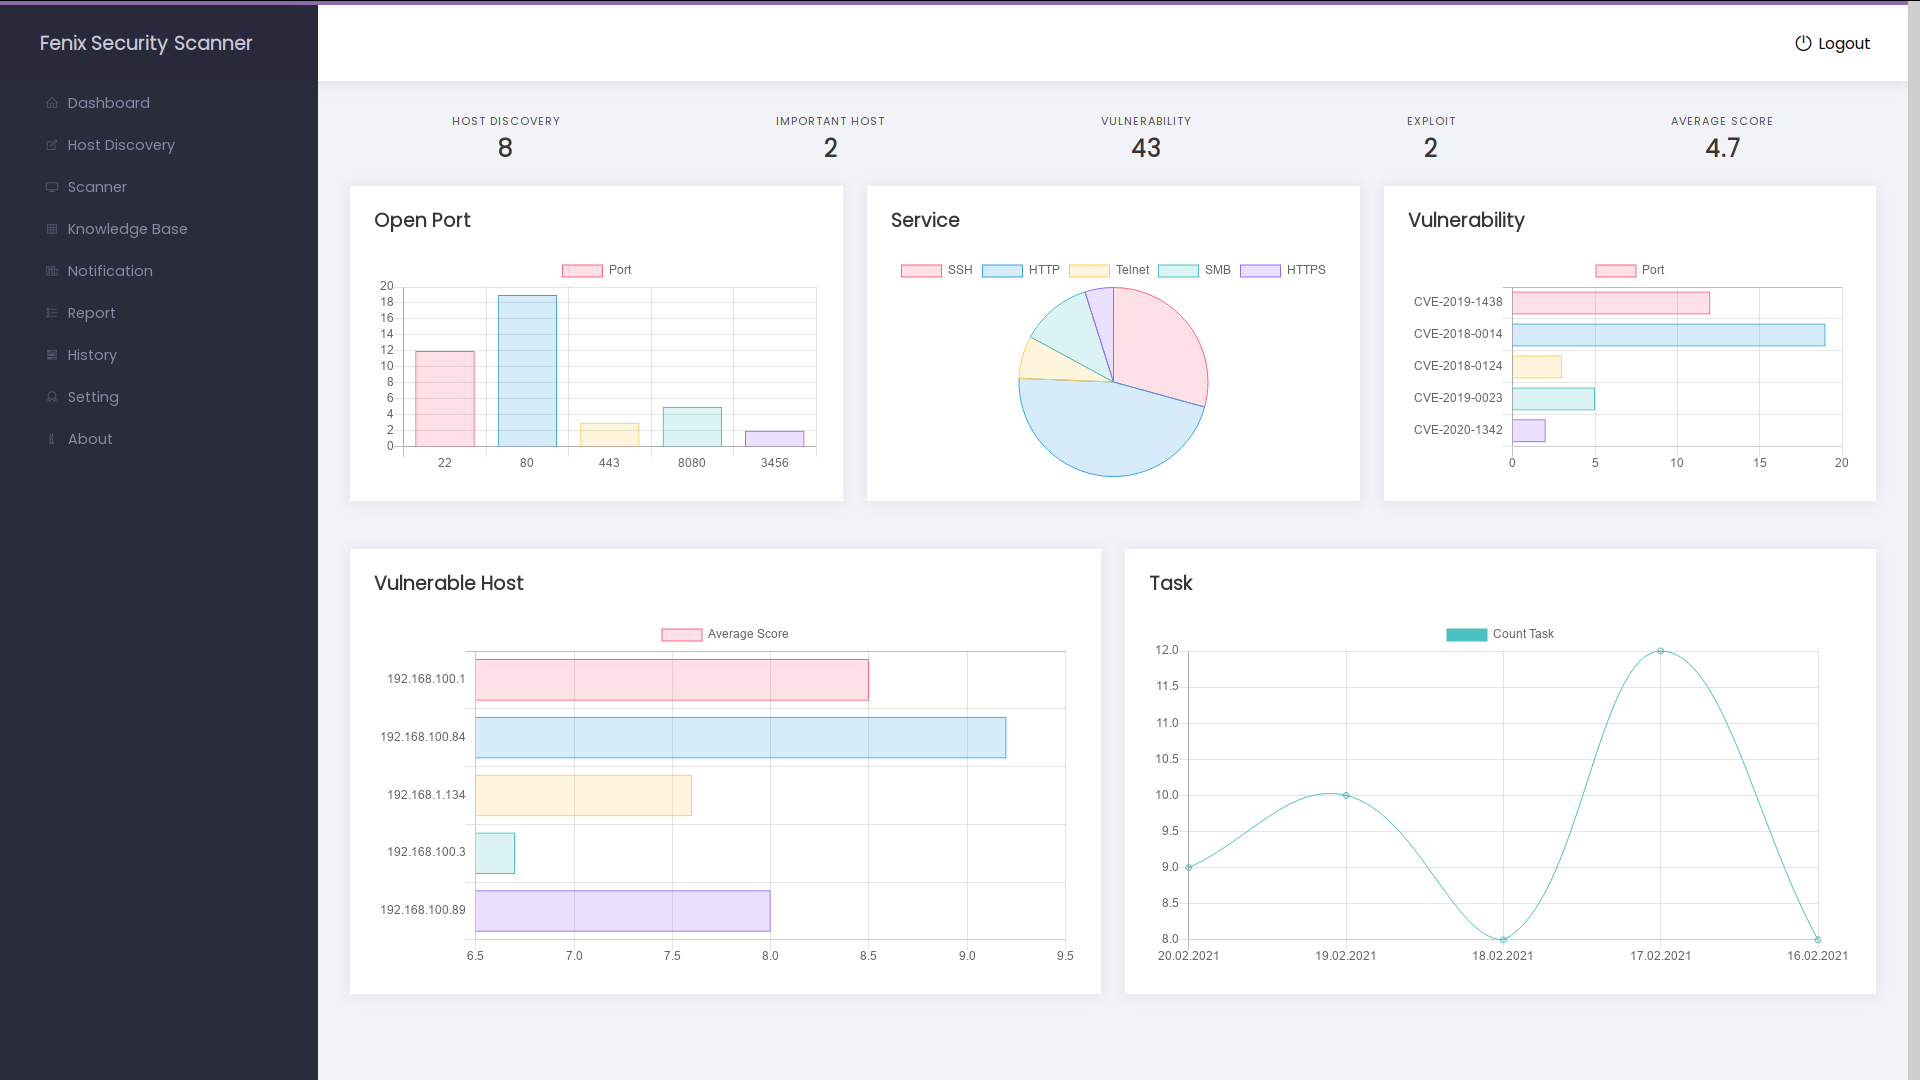
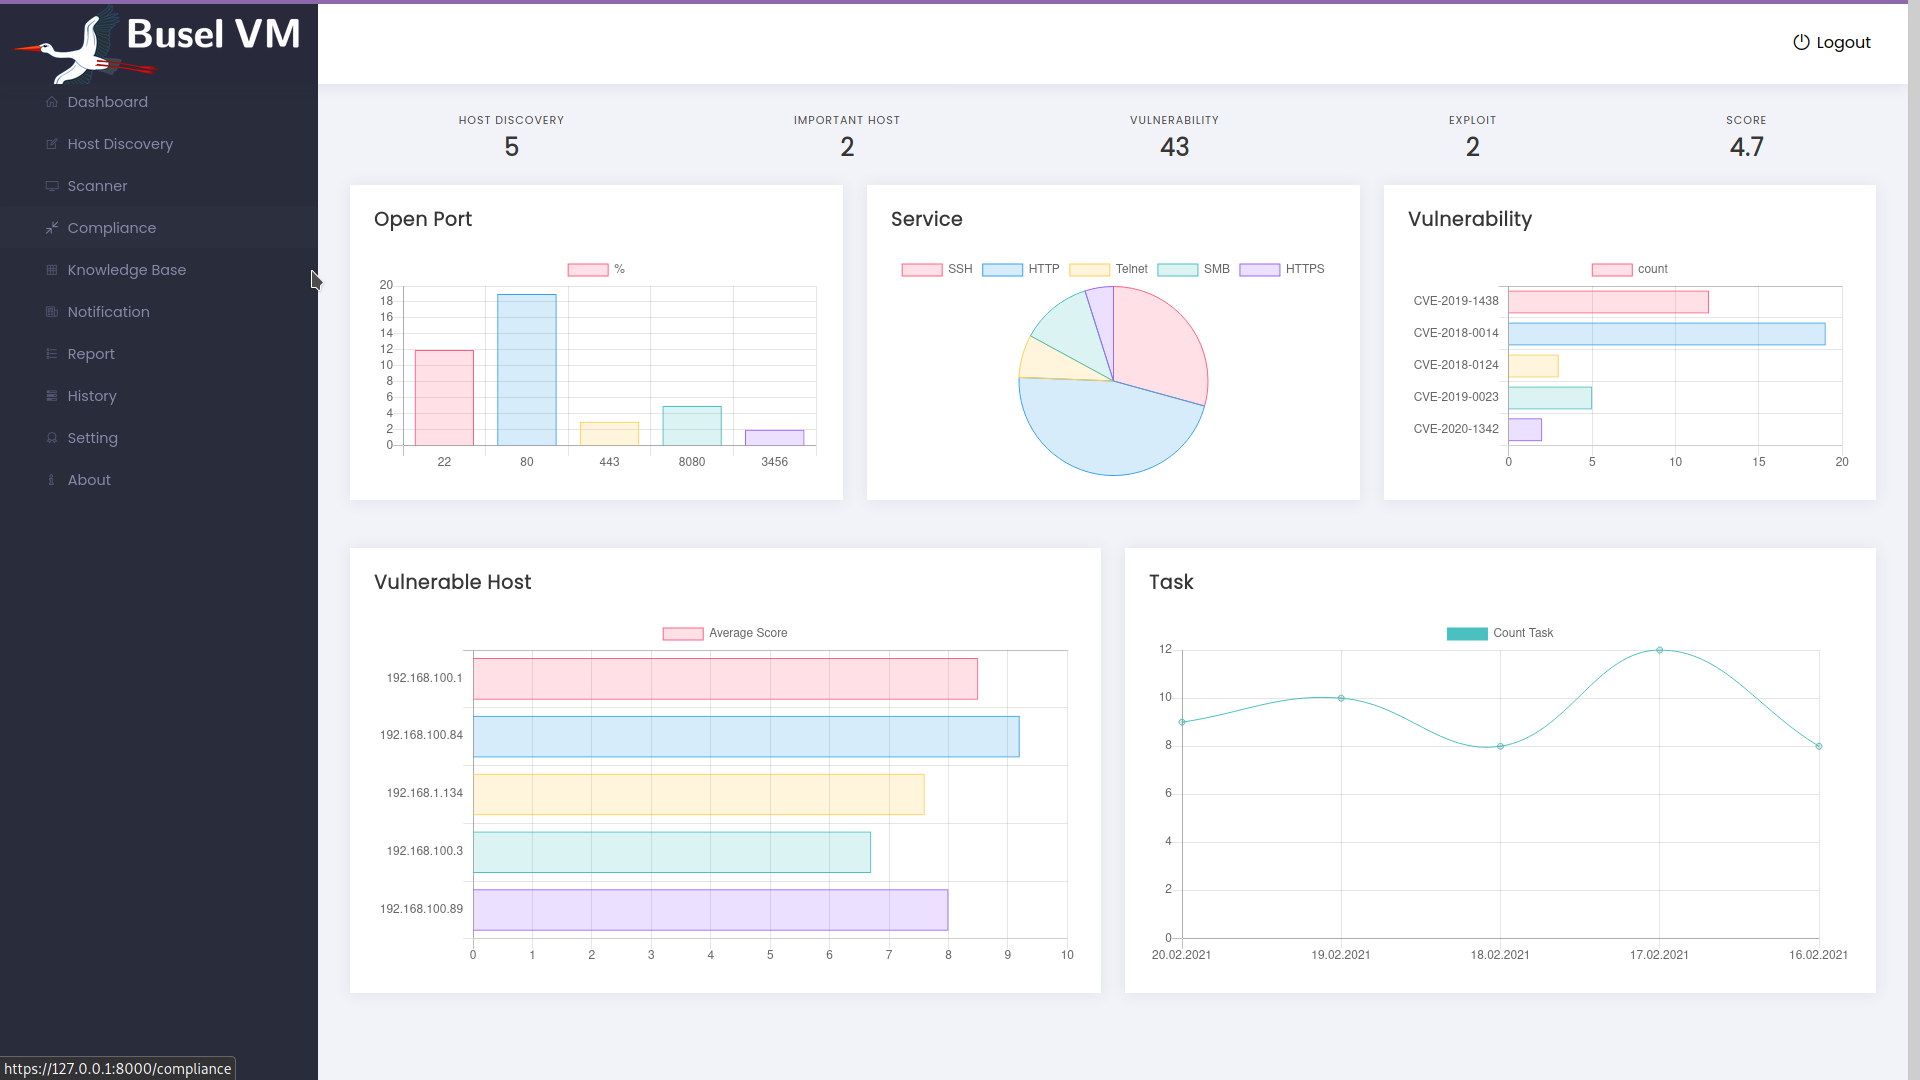
feat: Добавлена страница Compliance fix: Ребрендинг

diff --git a/app/templates/base.html b/app/templates/base.html
@@ -5,7 +5,7 @@
         <meta charset="utf-8">
         <meta http-equiv="X-UA-Compatible" content="IE=edge">
         <meta name="viewport" content="width=device-width, initial-scale=1">
-        <title>Fenix Security Scanner </title>
+        <title>Busel VM </title>
         <link rel="stylesheet" href="../static/css/app.css">
         <link href="https://fonts.googleapis.com/icon?family=Poppins" rel="stylesheet">
         <link rel="stylesheet" href="https://maxcdn.icons8.com/fonts/line-awesome/1.1/css/line-awesome-font-awesome.min.css">
@@ -26,9 +26,29 @@
     </head>
     <body>
 <!--    {% if current_user.is_authenticated %}-->
+{#    <nav class="navbar" role="navigation" aria-label="main navigation">#}
+{#  <div class="navbar-brand">#}
+{#    <a class="navbar-item" href="https://bulma.io">#}
+{#      <img src="https://bulma.io/images/bulma-logo.png" alt="Bulma: Free, open source, and modern CSS framework based on Flexbox" width="112" height="28">#}
+{#    </a>#}
+{##}
+{#    <a role="button" class="navbar-burger" aria-label="menu" aria-expanded="false">#}
+{#      <span aria-hidden="true"></span>#}
+{#      <span aria-hidden="true"></span>#}
+{#      <span aria-hidden="true"></span>#}
+{#    </a>#}
+{#  </div>#}
+{#</nav>#}
         <nav class="navbar columns is-fixed-top" role="navigation" aria-label="main navigation" id="app-header">
+
+{#        <nav class="navbar" role="navigation" aria-label="main navigation">#}
+{#  <div class="navbar-brand column is-5">#}
+{#    <img src="static/images/Untitled.png" alt="Busel VM" >#}
+{#  </div>#}
+{#</nav>#}
+
     <div class="navbar-brand column is-2 is-paddingless">
-        <a class="navbar-item" href="{{ url_for('main.dashboard') }}">Fenix Security Scanner</a>
+        <img src="static/images/Untitled.png" alt="Busel VM" >
     </div>
 
     <div id="navMenu" class="navbar-menu column is-hidden-touch">
@@ -55,6 +75,7 @@
                 <a class="" href="{{ url_for('main.dashboard') }}"><span class="icon"><i class="fa fa-home"></i></span> Dashboard</a>
                 <a class="" href="{{ url_for('main.inventory') }}"><span class="icon"><i class="fa fa-edit"></i></span> Host Discovery</a>
                 <a class="" href="{{ url_for('main.scanner') }}"><span class="icon"><i class="fa fa-desktop"></i></span> Scanner</a>
+                <a class="" href="{{ url_for('main.compliance_66') }}"><span class="icon"><i class="fa fa-compress"></i></span> Compliance</a>
 <!--                <a class="" href="{{ url_for('main.main_scheduller') }}"><span class="icon"><i class="fa fa-times-circle"></i></span> Scheduler</a>-->
                 <a class="" href="{{ url_for('main.cve') }}"><span class="icon"><i class="fa fa-table"></i></span> Knowledge Base</a>
                  <a class="" href="{{ url_for('main.notification') }}"><span class="icon"><i class="fa fa-newspaper-o"></i></span> Notification</a>

diff --git a/app/templates/compliance.html b/app/templates/compliance.html
@@ -1,0 +1,15 @@
+{% extends "base.html" %}
+
+{% block content %}
+<div class="column is-10" id="page-content">
+                    <div class="content-header">
+<h2 class="title is-4"><span class="icon"><i class="fa fa-compress"></i></span><strong>Compliance</strong></h2>
+<span class="separator"></span>
+    </div>
+    <div class="content-body">
+
+                    </div>
+
+                    </div>
+
+{% endblock %}

diff --git a/app/main.py b/app/main.py
@@ -415,3 +415,12 @@ def open_pdf(path):
         return send_from_directory(basedir + '/report/', filename=path, mimetype='application/pdf')
     except FileNotFoundError:
         abort(404)
+
+
+@main.route('/compliance', methods=['GET'])
+@login_required
+def compliance_66():
+    """
+
+    """
+    return render_template('compliance.html')
